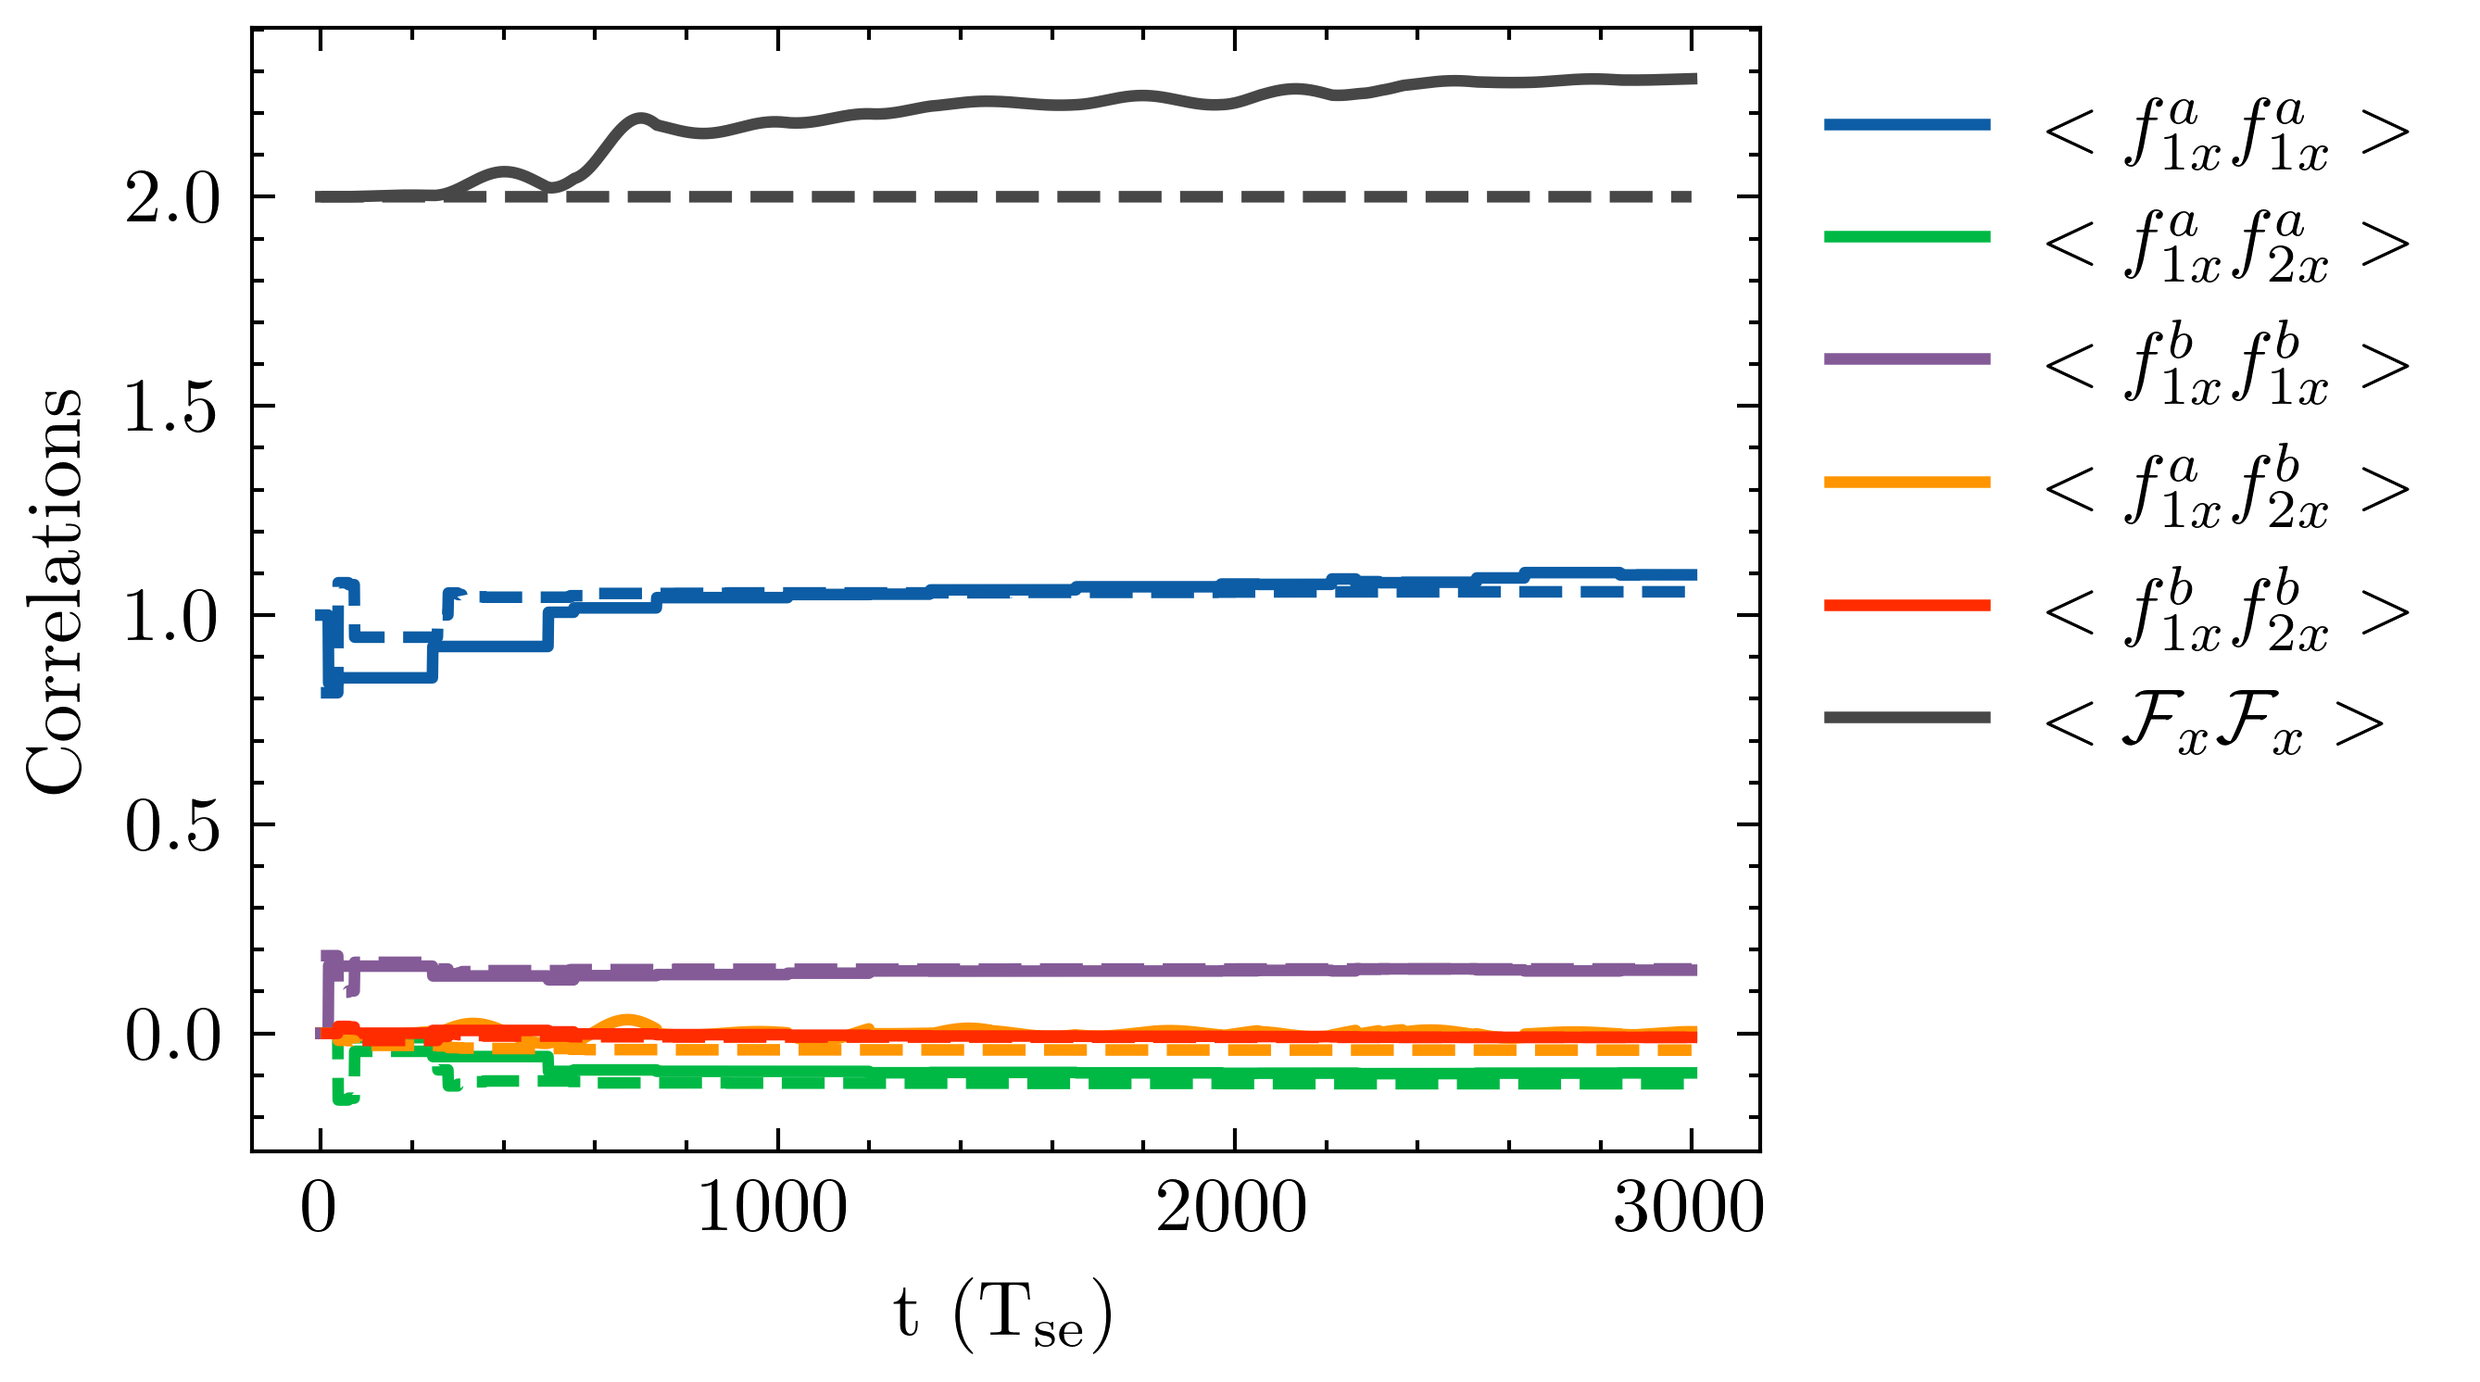
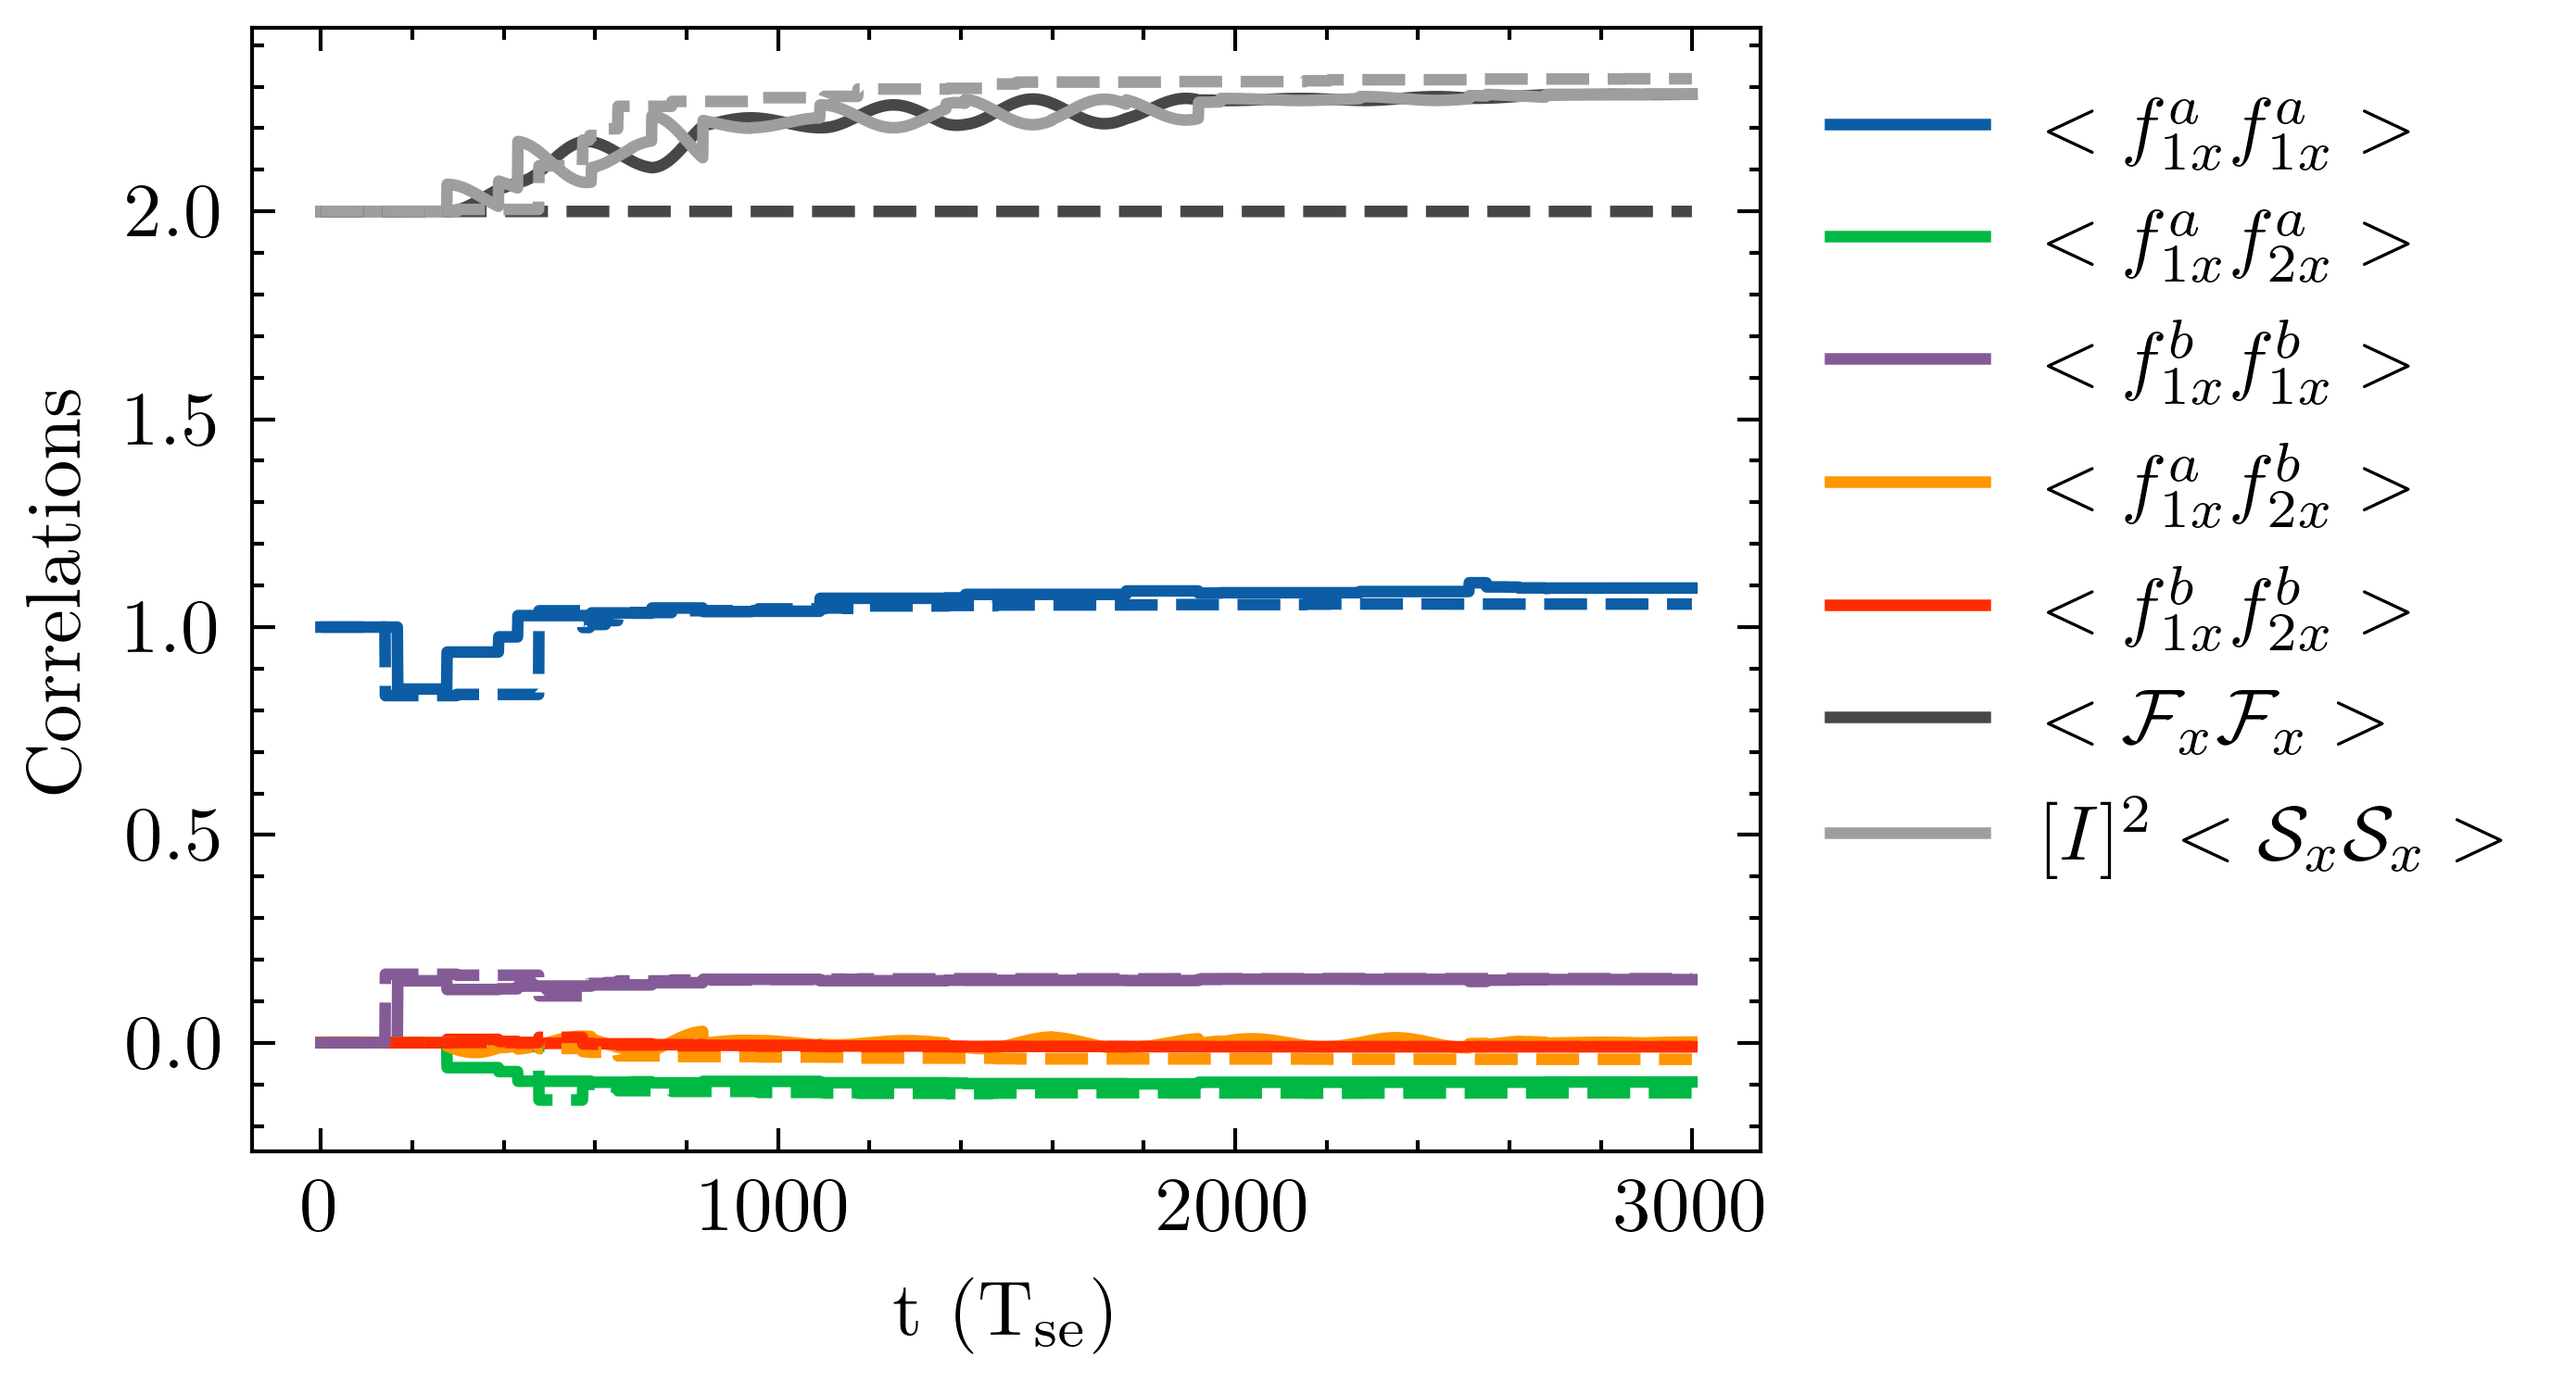
1

diff --git a/Correlations_and_squeezing/SEC relaxation of two atoms.py b/Correlations_and_squeezing/SEC relaxation of two atoms.py
@@ -4,7 +4,7 @@
 日期：2023年12月20日
 """
 import sys
-sys.path.append(r"D:\Optically-pumped-atoms\my_functions")
+sys.path.append(r"/Users/liyang/Documents/GitHub/Optically_polarized_atoms/my_functions")
 
 import numpy as np
 import matplotlib.pyplot as plt
@@ -82,6 +82,7 @@ C_6 = [None] * round(T / dt)
 C_7 = [None] * round(T / dt)
 C_8 = [None] * round(T / dt)
 C_9 = [None] * round(T / dt)
+C_10 = [None] * round(T / dt)
 C_12 = [None] * round(T / dt)
 C_22 = [None] * round(T / dt)
 C_32 = [None] * round(T / dt)
@@ -91,6 +92,7 @@ C_62 = [None] * round(T / dt)
 C_72 = [None] * round(T / dt)
 C_82 = [None] * round(T / dt)
 C_92 = [None] * round(T / dt)
+C_102 = [None] * round(T / dt)
 # C_8 = [None] * round(T / dt)
 # ----------------------Hyperfine interaction--------------------#
 hyperfine = block_diag(np.ones((5, 5)), np.ones((3, 3)))  # 一个原子
@@ -98,7 +100,7 @@ hyperfine = np.kron(hyperfine, hyperfine) # 两个原子
 
 mathcal_Fx=a1x+a2x+b1x+b2x
 mathcal_Sx=(a1x+a2x-b1x-b2x)
-mathcal_Fx=mathcal_Sx
+# mathcal_Fx=mathcal_Sx
 # ----------------------With magnetic field--------------------#
 omega_0 = 1
 # H = omega_0 * (S1z + S2z)  # 非投影定理
@@ -126,6 +128,7 @@ for i in t:
     C_8[i] = np.trace(Rhot @ b1x @ b2x) - np.trace(Rhot @ b1x) * np.trace(Rhot @ b2x)
 
     C_9[i] = np.trace(Rhot @ mathcal_Fx @ mathcal_Fx) - np.trace(Rhot @ mathcal_Fx) * np.trace(Rhot @ mathcal_Fx)
+    C_10[i] = np.trace(Rhot @ mathcal_Sx @ mathcal_Sx) - np.trace(Rhot @ mathcal_Sx) * np.trace(Rhot @ mathcal_Sx)
 
 Rhot2 = Rho_ini
 for i in t:
@@ -145,7 +148,7 @@ for i in t:
     C_82[i] = np.trace(Rhot2 @ b1x @ b2x) - np.trace(Rhot2 @ b1x) * np.trace(Rhot2 @ b2x)
 
     C_92[i] = np.trace(Rhot2 @ mathcal_Fx @ mathcal_Fx) - np.trace(Rhot2 @ mathcal_Fx) * np.trace(Rhot2 @ mathcal_Fx)
-
+    C_102[i] = np.trace(Rhot2 @ mathcal_Sx @ mathcal_Sx) - np.trace(Rhot2 @ mathcal_Sx) * np.trace(Rhot2 @ mathcal_Sx)
 t = t 
 
 plt.style.use(['science'])
@@ -158,7 +161,8 @@ with plt.style.context(['science']):
     p8, = ax1.plot(t, C_8,linewidth=1.5)
     p3, = ax1.plot(t, C_3,linewidth=1.5)
     p9, = ax1.plot(t, C_9,linewidth=1.5)
-    ax1.plot([], [])
+    p10, = ax1.plot(t, C_10,linewidth=1.5)
+    # ax1.plot([], [])
     # ax1.plot([], [])
     p12, = ax1.plot(t, C_12, linestyle='dashed',linewidth=1.5)
     p52, = ax1.plot(t, C_52, linestyle='dashed',linewidth=1.5)
@@ -166,9 +170,10 @@ with plt.style.context(['science']):
     p82, = ax1.plot(t, C_82, linestyle='dashed',linewidth=1.5)
     p32, = ax1.plot(t, C_32, linestyle='dashed',linewidth=1.5)
     p92, = ax1.plot(t, C_92, linestyle='dashed',linewidth=1.5)
-    ax1.legend([p1, p5, p3, p6, p8, p9],
+    p102, = ax1.plot(t, C_102, linestyle='dashed',linewidth=1.5)
+    ax1.legend([p1, p5, p3, p6, p8, p9,p10],
             ["$<f^a_{1x} f^a_{1x}>$", "$<f^a_{1x} f^a_{2x}>$", "$<f^b_{1x} f^b_{1x}>$", "$<f^a_{1x} f^b_{2x}>$", "$<f^b_{1x} f^b_{2x}>$",
-                "$[I]^2<\mathcal S_x \mathcal S_x>$"]
+                "$<\mathcal F_x \mathcal F_x>$","$[I]^2<\mathcal S_x \mathcal S_x>$"]
             , bbox_to_anchor=(1, 1),ncol=1)
     ax1.set_ylabel('Correlations',fontweight='bold')
     ax1.set_xlabel('t (T$_{\mathrm{se}}$)',fontweight='bold')

diff --git a/Correlations_and_squeezing/SEC increase of two atoms.py b/Correlations_and_squeezing/SEC increase of two atoms.py
@@ -4,7 +4,7 @@
 日期：2023年12月20日
 """
 import sys
-sys.path.append(r"D:\Optically-pumped-atoms\my_functions")
+sys.path.append(r"/Users/liyang/Documents/GitHub/Optically_polarized_atoms/my_functions")
 
 import numpy as np
 import matplotlib.pyplot as plt
@@ -82,6 +82,7 @@ C_6 = [None] * round(T / dt)
 C_7 = [None] * round(T / dt)
 C_8 = [None] * round(T / dt)
 C_9 = [None] * round(T / dt)
+C_10 = [None] * round(T / dt)
 C_12 = [None] * round(T / dt)
 C_22 = [None] * round(T / dt)
 C_32 = [None] * round(T / dt)
@@ -91,13 +92,13 @@ C_62 = [None] * round(T / dt)
 C_72 = [None] * round(T / dt)
 C_82 = [None] * round(T / dt)
 C_92 = [None] * round(T / dt)
+C_102 = [None] * round(T / dt)
 # C_8 = [None] * round(T / dt)
 # ----------------------Hyperfine interaction--------------------#
 hyperfine = block_diag(np.ones((5, 5)), np.ones((3, 3)))  # 一个原子
 hyperfine = np.kron(hyperfine, hyperfine) # 两个原子
 mathcal_Fx=a1x+a2x+b1x+b2x
 mathcal_Sx=(a1x+a2x-b1x-b2x)
-mathcal_Fx=mathcal_Fx
 # ----------------------With magnetic field--------------------#
 omega_0 = 1
 # H = omega_0 * (S1z + S2z)  # 非投影定理
@@ -125,6 +126,7 @@ for i in t:
     C_8[i] = np.trace(Rhot @ b1x @ b2x) - np.trace(Rhot @ b1x) * np.trace(Rhot @ b2x)
 
     C_9[i] = np.trace(Rhot @mathcal_Fx @ mathcal_Fx) - np.trace(Rhot @mathcal_Fx) * np.trace(Rhot @ mathcal_Fx)
+    C_10[i] = np.trace(Rhot @mathcal_Sx @ mathcal_Sx) - np.trace(Rhot @mathcal_Sx) * np.trace(Rhot @ mathcal_Sx)
 
 Rhot2 = Rho_ini
 for i in t:
@@ -145,7 +147,7 @@ for i in t:
     C_82[i] = np.trace(Rhot2 @ b1x @ b2x) - np.trace(Rhot2 @ b1x) * np.trace(Rhot2 @ b2x)
 
     C_92[i] = np.trace(Rhot2 @ mathcal_Fx @ mathcal_Fx) - np.trace(Rhot2 @ mathcal_Fx) * np.trace(Rhot2 @ mathcal_Fx)
-
+    C_102[i] = np.trace(Rhot2 @ mathcal_Sx @ mathcal_Sx) - np.trace(Rhot2 @ mathcal_Sx) * np.trace(Rhot2 @ mathcal_Sx)
 t = t 
 plt.style.use(['science'])
 with plt.style.context(['science']):
@@ -157,7 +159,8 @@ with plt.style.context(['science']):
     p8, = ax1.plot(t, C_8,linewidth=1.5)
     p3, = ax1.plot(t, C_3,linewidth=1.5)
     p9, = ax1.plot(t, C_9,linewidth=1.5)
-    ax1.plot([], [])
+    p10, = ax1.plot(t, C_10,linewidth=1.5)
+    # ax1.plot([], [])
     # ax1.plot([], [])
     p12, = ax1.plot(t, C_12, linestyle='dashed',linewidth=1.5)
     p52, = ax1.plot(t, C_52, linestyle='dashed',linewidth=1.5)
@@ -165,9 +168,10 @@ with plt.style.context(['science']):
     p82, = ax1.plot(t, C_82, linestyle='dashed',linewidth=1.5)
     p32, = ax1.plot(t, C_32, linestyle='dashed',linewidth=1.5)
     p92, = ax1.plot(t, C_92, linestyle='dashed',linewidth=1.5)
-    ax1.legend([p1, p5, p3, p6, p8, p9],
+    p102, = ax1.plot(t, C_102, linestyle='dashed',linewidth=1.5)
+    ax1.legend([p1, p5, p3, p6, p8, p9,p10],
             ["$<f^a_{1x} f^a_{1x}>$", "$<f^a_{1x} f^a_{2x}>$", "$<f^b_{1x} f^b_{1x}>$", "$<f^a_{1x} f^b_{2x}>$", "$<f^b_{1x} f^b_{2x}>$",
-                "$<\mathcal F_x \mathcal F_x>$"]
+                "$<\mathcal F_x \mathcal F_x>$","$[I]^2<\mathcal S_x \mathcal S_x>$"]
             , bbox_to_anchor=(1, 1),ncol=1)
     ax1.set_ylabel('Correlations')
     ax1.set_xlabel('t (T$_{\mathrm{se}}$)')

diff --git a/Correlations_and_squeezing/SEC of two Rb atoms on their correlation.py b/Correlations_and_squeezing/SEC of two Rb atoms on their correlation.py
@@ -4,11 +4,11 @@
 日期：2023年12月20日
 """
 import sys
-sys.path.append(r"D:\python\pythonProject\Optically_pumped_atoms\my_functions")
+sys.path.append(r"/Users/liyang/Documents/GitHub/Optically_polarized_atoms/my_functions")
 import numpy as np
 import matplotlib.pyplot as plt
-from my_functions.spin_operators_of_2or1_alkali_metal_atoms import spin_operators_of_2or1_alkali_metal_atoms
-from my_functions.alkali_atom_uncoupled_to_coupled import alkali_atom_uncoupled_to_coupled
+from spin_operators_of_2or1_alkali_metal_atoms import spin_operators_of_2or1_alkali_metal_atoms
+from alkali_atom_uncoupled_to_coupled import alkali_atom_uncoupled_to_coupled
 from qutip import *
 from scipy.linalg import *
 import matplotlib.pyplot as plt
@@ -79,7 +79,7 @@ hyperfine = block_diag(np.ones((5, 5)), np.ones((3, 3)))  # 一个原子
 hyperfine = np.kron(hyperfine, hyperfine)  # 两个原子
 
 # ----------------------With magnetic field--------------------#
-omega_0 = 10
+omega_0 = 0
 # H = omega_0 * (S1z + S2z)  # 非投影定理
 H = omega_0 * (a1z + a2z - b1z - b2z)  # 投影定理
 
